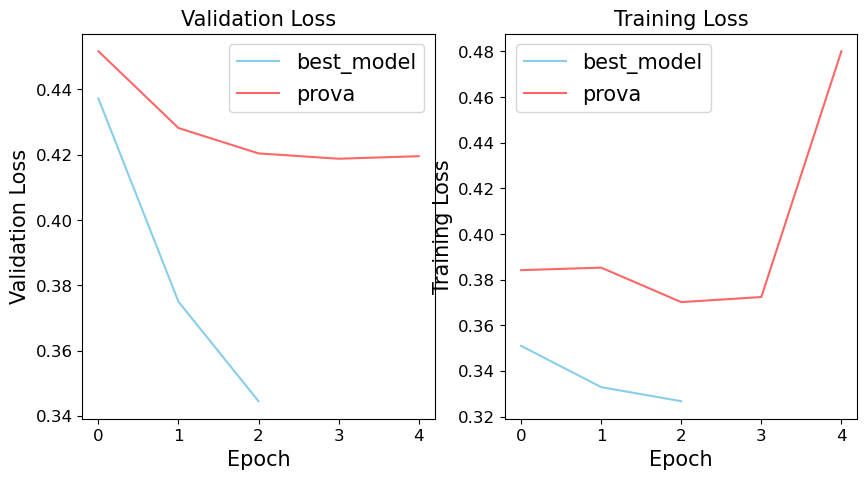
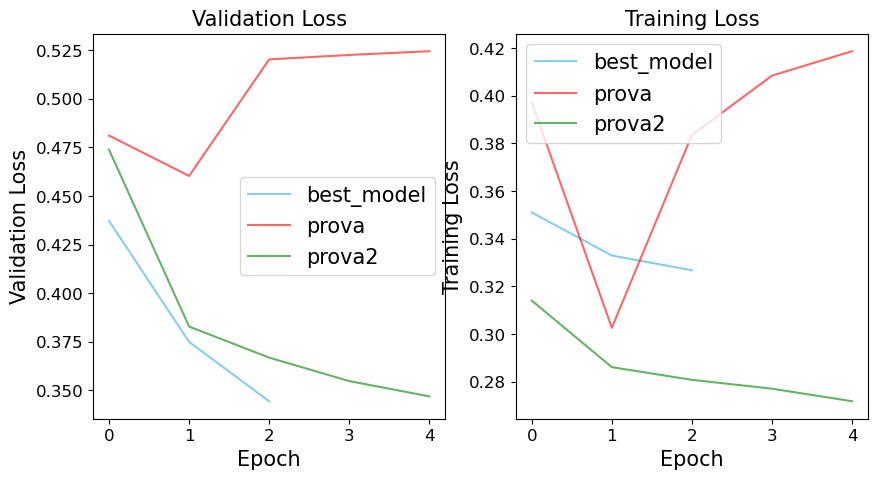
fix robe

diff --git a/codice/preprocessing/preprocessing.py b/codice/preprocessing/preprocessing.py
@@ -30,7 +30,8 @@ def delete_outliers(df_train):
         # Prima elimino la data perché fa casino per eliminare out
         df_train_input = df_train.iloc[:,0:(len(df_train.columns)-1)]
         df_train_target = df_train.iloc[:,-1]    
-        target_no_out = df_train_target[np.abs(df_train_target-df_train_target.mean()) <= (1.9*df_train_target.std())]
+        #target_no_out = df_train_target[np.abs(df_train_target-df_train_target.mean()) <= (1.9*df_train_target.std())]
+        target_no_out = df_train_target[df_train_target < df_train_target.quantile(.95)]
 
         # Aggiungo nuovamente le altre colonne
         train_no_out = pd.merge(target_no_out, df_train_input, how = "inner", left_index=True, right_index=True)
@@ -173,9 +174,13 @@ def preprocessing_data():
     # La variabile di target ha un bel po' di outlier quindi leviamoli
     x_train_no_out, y_train_no_out = delete_outliers(train)   
 
-    print("************* SPLITTING DATA ************ \n")        
+    print("************* CREATE DUMMIES ************ \n")
     x_test = test.copy()
+    
+    x_train_no_out = pd.get_dummies(x_train_no_out, columns = ['passenger_count','store_and_fwd_flag'])
+    x_test = pd.get_dummies(x_test, columns = ['passenger_count','store_and_fwd_flag'])
 
+    print("************* SPLITTING DATA ************ \n")        
     x_train, x_validation, y_train, y_validation = train_test_split(x_train_no_out, y_train_no_out, test_size=0.3, random_state=4242)
     
     print("************* PRODUCING PLOTS ************ \n")
@@ -194,21 +199,8 @@ def preprocessing_data():
     x_train = fix_lat_long(x_train)
     x_validation = fix_lat_long(x_validation)
     x_test = fix_lat_long(x_test)
-
-    print("************* CREATE DUMMIES ************ \n")
-    x_train = pd.get_dummies(x_train, columns = ['passenger_count','store_and_fwd_flag'])
-    x_validation = pd.get_dummies(x_validation, columns = ['passenger_count','store_and_fwd_flag'])
-    x_test = pd.get_dummies(x_test, columns = ['passenger_count','store_and_fwd_flag'])
     
     print("************* FIX THE CLASSES IN THE TEST SET ************ \n")
-    # Per trattare le cose in questo modo devo aggiungere le colonne fittizie a test per la classe 7 e 8 che non sono presenti in
-    # test
-    x_train.insert(loc=25, column='passenger_count_9', value=0)
-    #x_validation.insert(loc=14, column='passenger_count_7', value=0)
-    x_validation.insert(loc=24, column='passenger_count_8', value=0)
-    #x_validation.insert(loc=16, column='passenger_count_9', value=0)
-
-
     x_test.insert(loc=22, column='passenger_count_7', value=0)
     x_test.insert(loc=23, column='passenger_count_8', value=0)
 
@@ -217,9 +209,9 @@ def preprocessing_data():
     # Droppiamo momentaneamente le colonne che non so come trattare in modo da lavorarci. Poi le utilizzeremo meglio
     # Sarebbe interessante secondo me tenere solo l'ora del timestemp perché penso che sia la più indicativa 
     
-    x_train = x_train.iloc[:,7:]
-    x_validation = x_validation.iloc[:,7:]
-    x_test = x_test.iloc[:,6:]
+    x_train = x_train.iloc[:,6:].drop(['pickup_date'], axis = 1)
+    x_validation = x_validation.iloc[:,6:].drop(['pickup_date'], axis = 1)
+    x_test = x_test.iloc[:,5:].drop(['pickup_date'], axis = 1)
 
     print("************* SCALE THE DATA ************ \n")
     x_train_scaled = scale_data(x_train)
@@ -228,7 +220,7 @@ def preprocessing_data():
     
     # Ora scala la variabile di target
     sc_y = StandardScaler()
-    y_train_scaled = sc_y.fit_transform(y_train) ##################### QUAAAAAAAAAAAAAAAAAAAAAAAAAAAAAAAAAAAAAAAAA
+    y_train_scaled = sc_y.fit_transform(y_train) 
     y_validation_scaled = sc_y.fit_transform(y_validation)
 
     # Salva lo scaler di y per poter tornare indietro

diff --git a/codice/models/loss_comparison.py b/codice/models/loss_comparison.py
@@ -26,11 +26,12 @@ parser.add_argument('-c', '--comparison', type=str, required=False, default = ".
 args = parser.parse_args()
 
 
-def val_comparison(d1,d2):
+def val_comparison(d1,d2,d3):
     fig = plt.figure(figsize=(10,5)) 
     fig.add_subplot(121)
     plt.plot(d1["loss"], label= "best_model", color = "skyblue")
     plt.plot(d2["loss"], label= "prova", color = "red", alpha = 0.6)
+    plt.plot(d3["loss"], label= "prova2", color = "green", alpha = 0.6)
     plt.legend(fontsize = 15)
     plt.xticks( fontsize = 12)
     plt.yticks( fontsize = 12)
@@ -41,6 +42,7 @@ def val_comparison(d1,d2):
     fig.add_subplot(122)
     plt.plot(d1["val_loss"], label= "best_model", color = "skyblue")
     plt.plot(d2["val_loss"], label= "prova", color = "red", alpha = 0.6)
+    plt.plot(d3["val_loss"], label= "prova2", color = "green", alpha = 0.6)
     plt.legend(fontsize = 15)
     plt.xticks( fontsize = 12)
     plt.yticks( fontsize = 12)
@@ -58,6 +60,7 @@ def val_comparison(d1,d2):
 
 mod_1 = pd.read_csv(args.comparison+"/best_model/training.log")
 mod_2 = pd.read_csv(args.comparison+"/prova/training.log")
+mod_3 = pd.read_csv(args.comparison+"/prova2/training.log")
 
 #   Some useful plots
-val_comparison(mod_1,mod_2)
+val_comparison(mod_1,mod_2,mod_3)
